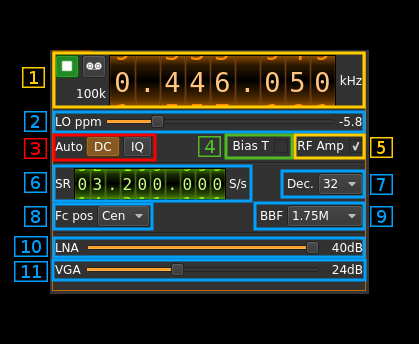
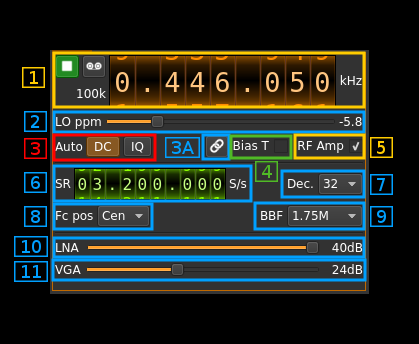
HackRF: updated documentation

Changed region(s): [[0.3723, 0.3779, 0.7136, 0.4651], [0.5895, 0.4651, 0.6826, 0.5523]]

diff --git a/plugins/samplesource/hackrfinput/readme.md b/plugins/samplesource/hackrfinput/readme.md
@@ -30,9 +30,9 @@ Device start / stop button.
   - Green square icon: device is running and can be stopped
   - Red square icon: an error occured. In the case the device was accidentally disconnected you may click on the icon, plug back in and start again.
   
-Please note that HackRF is a half duplex device so if you have the Tx open in another tab you have to stop it first before starting the Rx for it to work properly. In a similar manner you should stop the Rx before resuming the Tx.
+If you have the Tx open in another tab and it is running then it will be stopped automatically before the Rx starts. In a similar manner the Rx will be stopped before the Tx is started from the Tx tab.
 
-The settings on Tx or Rx tab are reapplied on start so provided the half duplex is handled correctly as stated above these settings can be considered independent.
+The settings on Rx or Tx tab are reapplied on start so these settings can be considered independent.
 
 <h4>1.3: Record</h4>
 
@@ -52,6 +52,14 @@ These buttons control the local DSP auto correction options:
 
   - **DC**: auto remove DC component
   - **IQ**: auto make I/Q balance
+
+<h3>3A: Link Tx frequency</h3>
+
+Use this button to toggle the device Tx frequency link.
+
+When active (button lit) and a tab is opened for the Tx part of the same device this option will activate the link of the Tx frequency to the Rx frequency. Thus when changing the Rx frequency the Tx frequency will vary by the same amount. This facilitates the split operation or repeater operation. You can also set the Tx frequency so that it follows exactly the Rx frequency (simplex).
+
+The amount of shift is simply set by changing the frequency in the Tx tab.
   
 <h3>4: Bias tee</h3>
 

diff --git a/plugins/samplesink/hackrfoutput/readme.md b/plugins/samplesink/hackrfoutput/readme.md
@@ -22,9 +22,9 @@ Device start / stop button.
   - Red square icon: device is running and can be stopped
   - Magenta (or pink) square icon: an error occured. In the case the device was accidentally disconnected you may click on the icon, plug back in and start again.
 
-Please note that HackRF is a half duplex device so if you have the Rx open in another tab you have to stop it first before starting the Tx for it to work properly. In a similar manner you should stop the Tx before resuming the Rx.
+If you have the Rx open in another tab and it is running then it will be stopped automatically before the Tx starts. In a similar manner the Tx will be stopped before the Rx is started from the Rx tab.
 
-The settings on Tx or Rx tab are reapplied on start so provided the half duplex is handled correctly as stated above these settings can be considered independent.
+The settings on Tx or Rx tab are reapplied on start so these settings can be considered independent.
   
 <h3>2: Baseband sample rate</h3>
 
